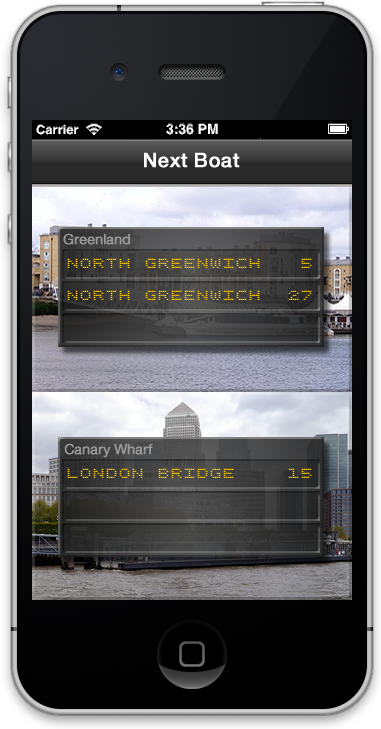
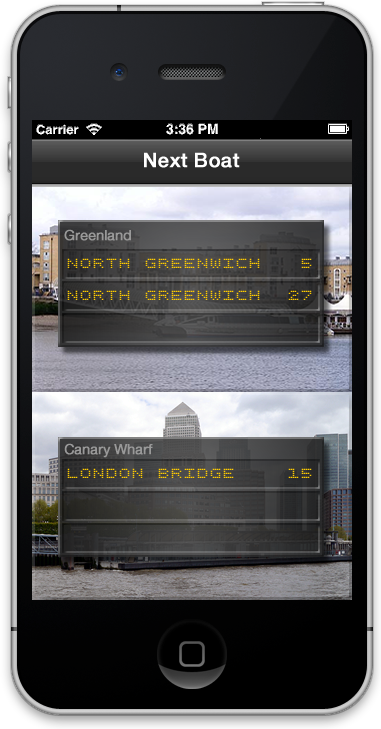
Add Pier status

Changed region(s): [[0.1444, 0.3018, 0.8661, 0.332]]

diff --git a/src/next-boat/view/MainCtrl.js b/src/next-boat/view/MainCtrl.js
@@ -9,6 +9,28 @@ module.controller('MainCtrl', ['$scope', 'RiverBusPredictionsService', function 
 	$scope.bottomPierPredictions = riverBusPredictionsService.subscribe($scope.bottomPier);
 
 
+	$scope.topPierPredictions.then(function (predictions) {
+		if (predictions)
+		{
+			if (predictions.length == 0)
+				$scope.topPier.status = null;
+			else
+				$scope.topPier.status = predictions[0].pier.status;
+		}	
+	});
+
+	$scope.bottomPierPredictions.then(function (predictions) {
+		if (predictions)
+		{
+			if (predictions.length == 0)
+				$scope.bottomPier.status = null;
+			else
+				$scope.bottomPier.status = predictions[0].pier.status;
+		}	
+	});
+
+
+
 	$scope.topPier.a = ['a'];
 	console.log($scope.topPier);
 	var im = Immutable.clone($scope.topPier);

diff --git a/src/next-boat/directive/PredictionsDirective.css b/src/next-boat/directive/PredictionsDirective.css
@@ -12,16 +12,16 @@
 ul.predictions
 {
 	list-style: none;
-	padding: 0px;
+	padding-top: 4px;
 	padding-left: 3px;
 	padding-right: 2px;
-	height: 120px;
+	height: 130px;
 	width: 266px;
 	background: #333333;
 	position: absolute;
 	top: 50%;
 	left: 50%;
-	margin: -60px 0 0 -133px;
+	margin: -65px 0 0 -133px;
 	opacity: 0.9;
 	border-top: 2px solid #666666;
 	border-left: 2px solid #666666;
@@ -34,7 +34,16 @@ ul.predictions span
 {
 	opacity: 1.0;
 	color: #999999;
-	font-size: 10pt;
+	font-size: 12pt;
+	position: relative;
+	display: block;
+	height: 24px;
+	padding-left: 2px;
+}
+
+ul.predictions span.status
+{
+	float: right;
 }
 
 ul.predictions ul

diff --git a/src/next-boat/directive/PredictionsDirective.html b/src/next-boat/directive/PredictionsDirective.html
@@ -1,8 +1,8 @@
 <ul class="predictions">
 	<li>
-		<span>{{pier.name}}</span>
+		<span>{{pier.name}}<span class="status">{{pier.status}}</span></span>
 		<ul>
-			<li ng:repeat="prediction in predictions | filter: prediction.direction = direction | orderBy:'expectedTime.getTime()'">
+			<li ng:repeat="prediction in predictions | filter: predictionFilter | orderBy:'expectedTime.getTime()'">
 				{{prediction.boat.destination | uppercase}}<span>{{minutesUntil(prediction.expectedTime)}}</span>
 			</li>
 		</ul>

diff --git a/src/next-boat/directive/PredictionsDirectiveCtrl.js b/src/next-boat/directive/PredictionsDirectiveCtrl.js
@@ -9,4 +9,9 @@ module.controller('PredictionsDirectiveCtrl', ['$scope', function($scope)
 		return Math.ceil( (time.getTime()-now.getTime()) / MINUTES);
 	}
 
+	$scope.predictionFilter = function(prediction)
+	{
+		return prediction.boat.direction === $scope.direction && prediction.pier.status < 2;
+	}
+
 }]);

diff --git a/src/lib/immutable.js b/src/lib/immutable.js
@@ -85,7 +85,7 @@
 		function deepClone(obj)
 		{
 			return JSON.parse(JSON.stringify(obj), function(prop, value) { 
-				if (typeof(value) === 'object') 
+				if (value && typeof(value) === 'object') 
 				{
 					if (Array.isArray(value))
 						var typed = new global.Immutable.Array();

diff --git a/src/next-boat/domain/Pier.js b/src/next-boat/domain/Pier.js
@@ -4,6 +4,6 @@ var Pier = function(id, name)
 
 	this.id = id || '';
 	this.name = name || '';
-	this.status = '';
+	this.status = null;
 
 }
